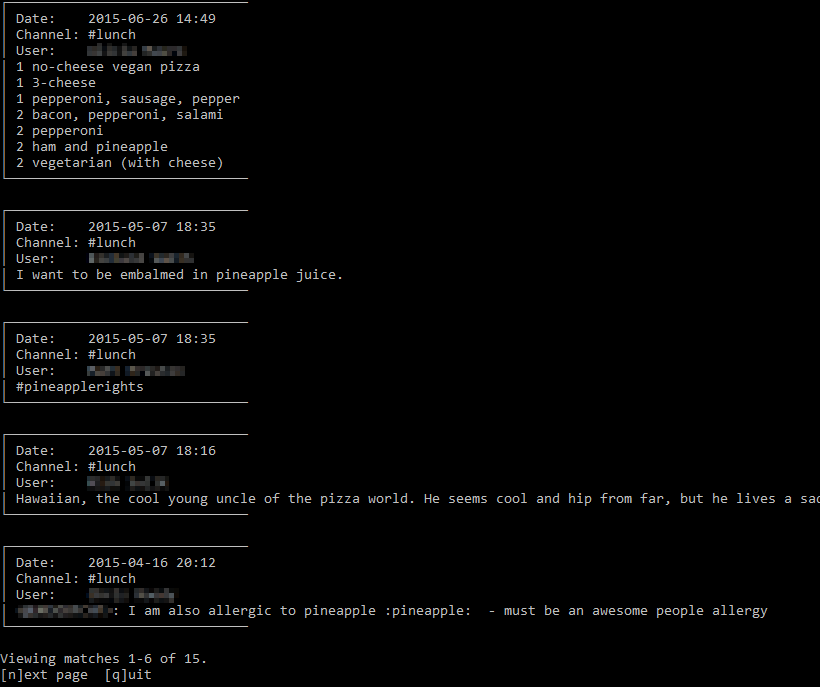
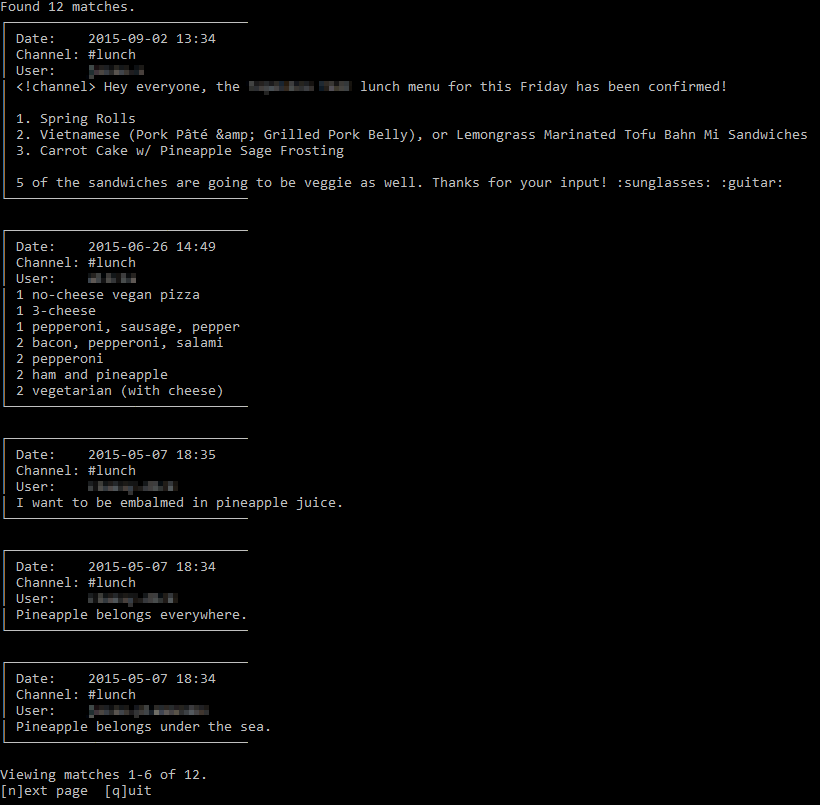
support complex search queries using Lucene
This enables search queries with boolean operators, fuzziness, ranges, etc as described at https://lucene.apache.org/core/2_9_4/queryparsersyntax.html

diff --git a/Program.cs b/Program.cs
@@ -2,9 +2,18 @@
 using System.Collections.Generic;
 using System.IO;
 using System.Linq;
+using Lucene.Net.Analysis;
+using Lucene.Net.Analysis.Standard;
+using Lucene.Net.Documents;
+using Lucene.Net.Index;
+using Lucene.Net.QueryParsers;
+using Lucene.Net.Search;
+using Lucene.Net.Store;
 using Newtonsoft.Json;
 using Pathoschild.SlackArchiveSearch.Framework;
 using Pathoschild.SlackArchiveSearch.Models;
+using Directory = System.IO.Directory;
+using Version = Lucene.Net.Util.Version;
 
 namespace Pathoschild.SlackArchiveSearch
 {
@@ -16,6 +25,9 @@ namespace Pathoschild.SlackArchiveSearch
         *********/
         /// <summary>The directory to which to write archive data.</summary>
         private static readonly string DataDirectory = Path.Combine(Path.GetTempPath(), "slack archive search");
+
+        /// <summary>The directory to which to write archive data.</summary>
+        private static readonly string IndexDirectory = Path.Combine(DataDirectory, "index");
 
         /// <summary>The number of matches to show on the screen at a time.</summary>
         const int PageSize = 5;
@@ -55,8 +67,8 @@ namespace Pathoschild.SlackArchiveSearch
                     continue;
                 }
 
-                Console.WriteLine("Reading archive...");
-                data = Program.RebuildArchive(Program.DataDirectory, archiveDirectory);
+                data = Program.ImportArchive(Program.DataDirectory, archiveDirectory);
+                Program.RebuildIndex(data, Program.IndexDirectory);
                 break;
             }
 
@@ -67,20 +79,30 @@ namespace Pathoschild.SlackArchiveSearch
                 Console.Clear();
                 Console.WriteLine($"Found {data.Messages.Length} messages by {data.Users.Count} users in {data.Channels.Count} channels, posted between {data.Messages.Min(p => p.Date).ToString("yyyy-MM-dd HH:mm")} and {data.Messages.Max(p => p.Date).ToString("yyyy-MM-dd HH:mm")}.");
                 Console.WriteLine($"All times are shown in {TimeZone.CurrentTimeZone.StandardName}.");
-                Console.WriteLine("\nWhat message text do you want to search?");
+                Console.WriteLine();
+                Console.WriteLine("┌───Search syntax──────────────");
+                Console.WriteLine("│ You can enter simple text to search all fields, or use Lucene");
+                Console.WriteLine("│ search syntax: https://lucene.apache.org/core/2_9_4/queryparsersyntax.html");
+                Console.WriteLine("│ Available fields:");
+                Console.WriteLine("│   date (in ISO-8601 format like 2015-01-30T15:00:00Z, in local time);");
+                Console.WriteLine("│   channel (like 'lunch');");
+                Console.WriteLine("│   username (like 'jesse.plamondon');");
+                Console.WriteLine("│   text (in slack format).");
+                Console.WriteLine("│");
+                Console.WriteLine("│Example query:");
+                Console.WriteLine("│   channel:lunch AND username:jesse.plamondon AND pineapple");
+                Console.WriteLine("└──────────────────────────────");
+                Console.WriteLine();
+                Console.WriteLine("\nWhat do you want to search?");
+                Console.Write("> ");
 
                 // get search string
                 string search = Console.ReadLine();
                 if (search == null)
                     continue;
 
-                // get matches
-                Message[] matches = (
-                    from message in data.Messages
-                    where message.Text != null && message.Text.Contains(search)
-                    orderby message.Date descending
-                    select message
-                ).ToArray();
+                // show matches
+                Message[] matches = Program.SearchIndex(search, data, Program.IndexDirectory).ToArray();
                 Program.DisplayResults(matches, data.Channels, data.Users, Program.PageSize);
             }
         }
@@ -105,32 +127,118 @@ namespace Pathoschild.SlackArchiveSearch
         /// <summary>Interactively read data from a Slack archive into the cache.</summary>
         /// <param name="dataDirectory">The directory to which to write archive data.</param>
         /// <param name="archiveDirectory">The archive directory to import.</param>
-        private static Cache RebuildArchive(string dataDirectory, string archiveDirectory)
+        private static Cache ImportArchive(string dataDirectory, string archiveDirectory)
         {
             // read metadata
+            Console.WriteLine("Reading metadata...");
             Dictionary<string, User> users = Program.ReadFile<List<User>>(Path.Combine(archiveDirectory, "users.json")).ToDictionary(p => p.ID);
             Dictionary<string, Channel> channels = Program.ReadFile<List<Channel>>(Path.Combine(archiveDirectory, "channels.json")).ToDictionary(p => p.ID);
 
             // read channel messages
+            Console.WriteLine("Reading channel data...");
             List<Message> messages = new List<Message>();
             foreach (Channel channel in channels.Values)
             {
                 foreach (string path in Directory.EnumerateFiles(Path.Combine(archiveDirectory, channel.Name)))
                 {
+                    // read messages
                     var channelMessages = Program.ReadFile<List<Message>>(path);
                     foreach (Message message in channelMessages)
+                    {
+                        // inject message data
+                        message.MessageID = Guid.NewGuid().ToString("N");
+
+                        // inject channel data
                         message.ChannelID = channel.ID;
+                        message.ChannelName = channel.Name;
+
+                        // inject user data
+                        User user = message.UserID != null && users.ContainsKey(message.UserID) ? users[message.UserID] : null;
+                        if (user != null)
+                        {
+                            message.AuthorName = user.Name;
+                            message.AuthorUsername = user.UserName;
+                        }
+                        else
+                        {
+                            message.AuthorName = message.CustomUserName ?? message.UserID;
+                            message.AuthorUsername = message.CustomUserName ?? message.UserID;
+                        }
+                    }
                     messages.AddRange(channelMessages);
                 }
             }
 
             // cache data
+            Console.WriteLine("Writing cache...");
             Directory.CreateDirectory(dataDirectory);
             string cacheFile = Path.Combine(dataDirectory, "cache.json");
             Cache cache = new Cache { Channels = channels, Users = users, Messages = messages.ToArray() };
             File.WriteAllText(cacheFile, JsonConvert.SerializeObject(cache));
 
             return cache;
+        }
+
+        /// <summary>Interactively rebuild the search index.</summary>
+        /// <param name="data">The data to index.</param>
+        /// <param name="indexDirectory">The directory containing the search index.</param>
+        public static void RebuildIndex(Cache data, string indexDirectory)
+        {
+            // clear previous index
+            foreach (string file in Directory.EnumerateFiles(indexDirectory))
+                File.Delete(file);
+
+            // build Lucene index
+            Console.WriteLine("Building search index...");
+            using (FSDirectory directory = FSDirectory.Open(indexDirectory))
+            using (Analyzer analyzer = new StandardAnalyzer(Version.LUCENE_30))
+            using (IndexWriter writer = new IndexWriter(directory, analyzer, IndexWriter.MaxFieldLength.UNLIMITED))
+            {
+                foreach (var message in data.Messages.Reverse()) // index newer first to match how results are displayed
+                {
+                    Document doc = new Document();
+                    doc.Add(new Field("id", message.MessageID, Field.Store.YES, Field.Index.ANALYZED));
+                    doc.Add(new Field("date", message.Date.ToString("o"), Field.Store.YES, Field.Index.ANALYZED));
+                    doc.Add(new Field("channel", message.ChannelName, Field.Store.YES, Field.Index.ANALYZED));
+                    doc.Add(new Field("username", message.AuthorUsername ?? "", Field.Store.YES, Field.Index.ANALYZED));
+                    doc.Add(new Field("text", message.Text ?? "", Field.Store.YES, Field.Index.ANALYZED));
+                    writer.AddDocument(doc);
+                }
+                writer.Optimize();
+                writer.Flush(true, true, true);
+            }
+        }
+
+        /// <summary>Find messages matching an index search.</summary>
+        /// <param name="search">The search query.</param>
+        /// <param name="data">The data to search.</param>
+        /// <param name="indexDirectory">The directory containing the search index.</param>
+        public static IEnumerable<Message> SearchIndex(string search, Cache data, string indexDirectory)
+        {
+            using (FSDirectory directory = FSDirectory.Open(indexDirectory))
+            using (IndexReader reader = IndexReader.Open(directory, true))
+            using (Searcher searcher = new IndexSearcher(reader))
+            using (Analyzer analyzer = new StandardAnalyzer(Version.LUCENE_30))
+            {
+                // search index
+                QueryParser parser = new MultiFieldQueryParser(Version.LUCENE_30, new[] { "id", "date", "channel", "username", "text"}, analyzer);
+                Query query = parser.Parse(search);
+                ScoreDoc[] hits = searcher.Search(query, null, 1000, Sort.INDEXORDER).ScoreDocs;
+
+                // return matches
+                foreach (ScoreDoc hit in hits)
+                {
+                    Document document = searcher.Doc(hit.Doc);
+                    string messageID = document.Get("id");
+                    Message message = data.Messages.FirstOrDefault(p => p.MessageID == messageID);
+                    if (message == null)
+                    {
+                        Console.WriteLine($"ERROR: couldn't find message #{messageID} matching the search index. The search index may be out of sync.");
+                        continue;
+                    }
+                    yield return message;
+                }
+            }
         }
 
         /// <summary>Interactively display search results.</summary>
@@ -140,18 +248,23 @@ namespace Pathoschild.SlackArchiveSearch
         /// <param name="pageSize">The number of items to show on the screen at one time.</param>
         private static void DisplayResults(Message[] matches, IDictionary<string, Channel> channels, IDictionary<string, User> users, int pageSize)
         {
+            // no matches
+            if (!matches.Any())
+            {
+                Console.WriteLine("No matches found. :(");
+                Console.WriteLine("Hit enter to continue.");
+                return;
+            }
+
             // format matches for output
             string[] output = matches.Select(message =>
             {
-                string username = message.CustomUserName ?? (message.UserID != null ? users[message.UserID].Name : "<no name>");
-                string channelName = channels[message.ChannelID].Name;
                 string formattedText = String.Join("\n│ ", message.Text.Split('\n'));
-
                 return
                     "┌──────────────────────────────\n"
                     + $"│ Date:    {message.Date.ToString("yyyy-MM-dd HH:mm")}\n"
-                    + $"│ Channel: #{channelName}\n"
-                    + $"│ User:    {username}\n"
+                    + $"│ Channel: #{message.ChannelName}\n"
+                    + $"│ User:    {message.AuthorUsername}\n"
                     + $"| {formattedText}\n"
                     + "└──────────────────────────────\n";
             }).ToArray();
@@ -170,8 +283,6 @@ namespace Pathoschild.SlackArchiveSearch
                 Console.WriteLine(String.Join("\n", output.Skip(offset).Take(pageSize)));
 
                 // print footer
-                if (matches.Length <= pageSize)
-                    break;
                 Console.WriteLine($"Viewing matches {offset + 1}–{Math.Min(count, offset + 1 + pageSize)} of {count}.");
                 string question = "";
                 if (offset > 0)

diff --git a/Models/Message.cs b/Models/Message.cs
@@ -7,14 +7,13 @@ namespace Pathoschild.SlackArchiveSearch.Models
     /// <summary>Basic information about a Slack channel message.</summary>
     public class Message
     {
+        /****
+        ** Fields from archive
+        ****/
         /// <summary>When the message was posted.</summary>
         [JsonProperty("ts")]
         [JsonConverter(typeof(UnixDateTimeConverter))]
         public DateTime Date { get; set; }
-
-        /// <summary>The channel to which the message was posted.</summary>
-        /// <remarks>This value is populated after parsing.</remarks>
-        public string ChannelID { get; set; }
 
         /// <summary>The message author's unique identifier.</summary>
         [JsonProperty("user")]
@@ -32,5 +31,26 @@ namespace Pathoschild.SlackArchiveSearch.Models
 
         /// <summary>The message text (with Slack formatting markup).</summary>
         public string Text { get; set; }
+
+
+        /****
+        ** Injected fields
+        ****/
+        /// <summary>A unique ID for search lookup.</summary>
+        public string MessageID { get; set; }
+
+        /// <summary>The channel to which the message was posted.</summary>
+        /// <remarks>This value is populated after parsing.</remarks>
+        public string ChannelID { get; set; }
+
+        /// <summary>The name of the channel to which the message was posted.</summary>
+        /// <remarks>This value is populated after parsing.</remarks>
+        public string ChannelName { get; set; }
+
+        /// <summary>The display name of the message author.</summary>
+        public string AuthorName { get; set; }
+
+        /// <summary>The username of the message author.</summary>
+        public string AuthorUsername { get; set; }
     }
 }

diff --git a/Models/Channel.cs b/Models/Channel.cs
@@ -28,8 +28,5 @@ namespace Pathoschild.SlackArchiveSearch.Models
         /// <summary>The unique identifiers for the users currently in the channel.</summary>
         [JsonProperty("members")]
         public string[] MemberIds { get; set; }
-
-        /// <summary>The messages in the channel.</summary>
-        public Message[] Messages { get; set; }
     }
 }
